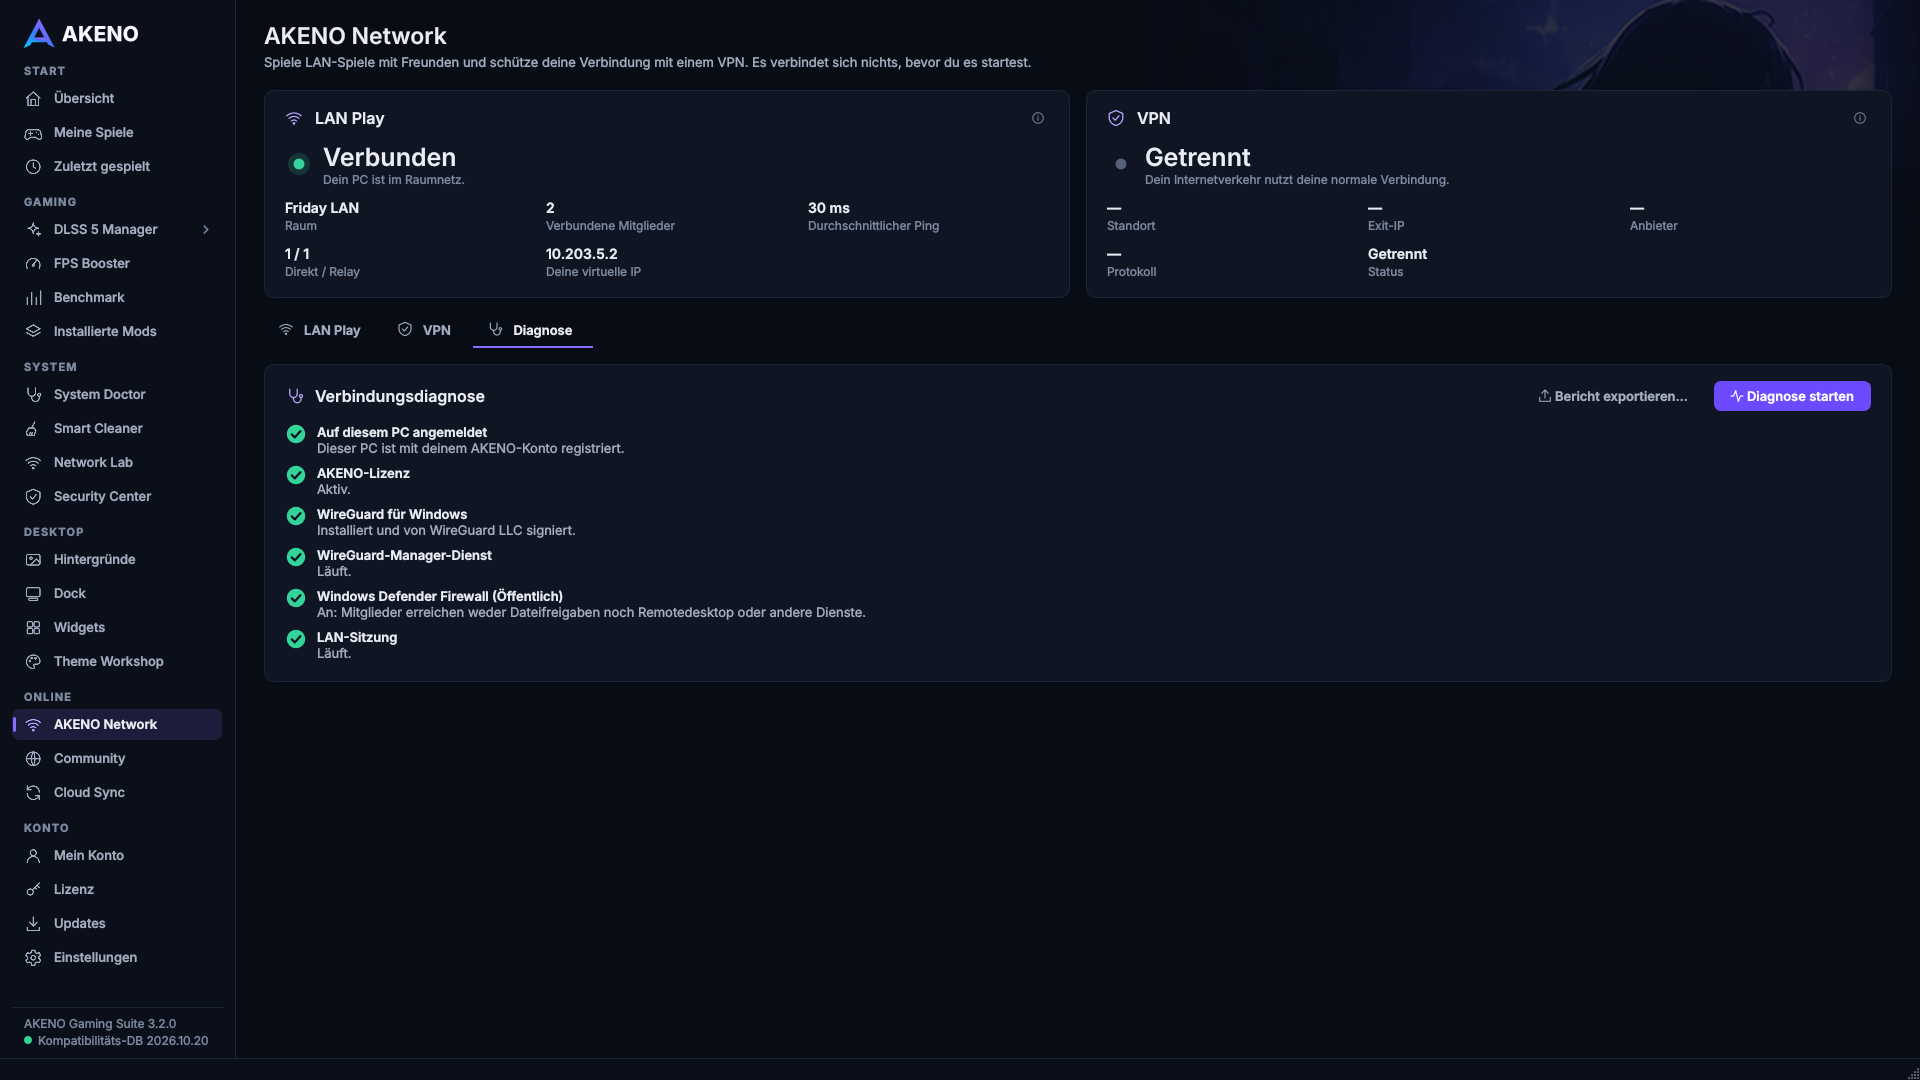
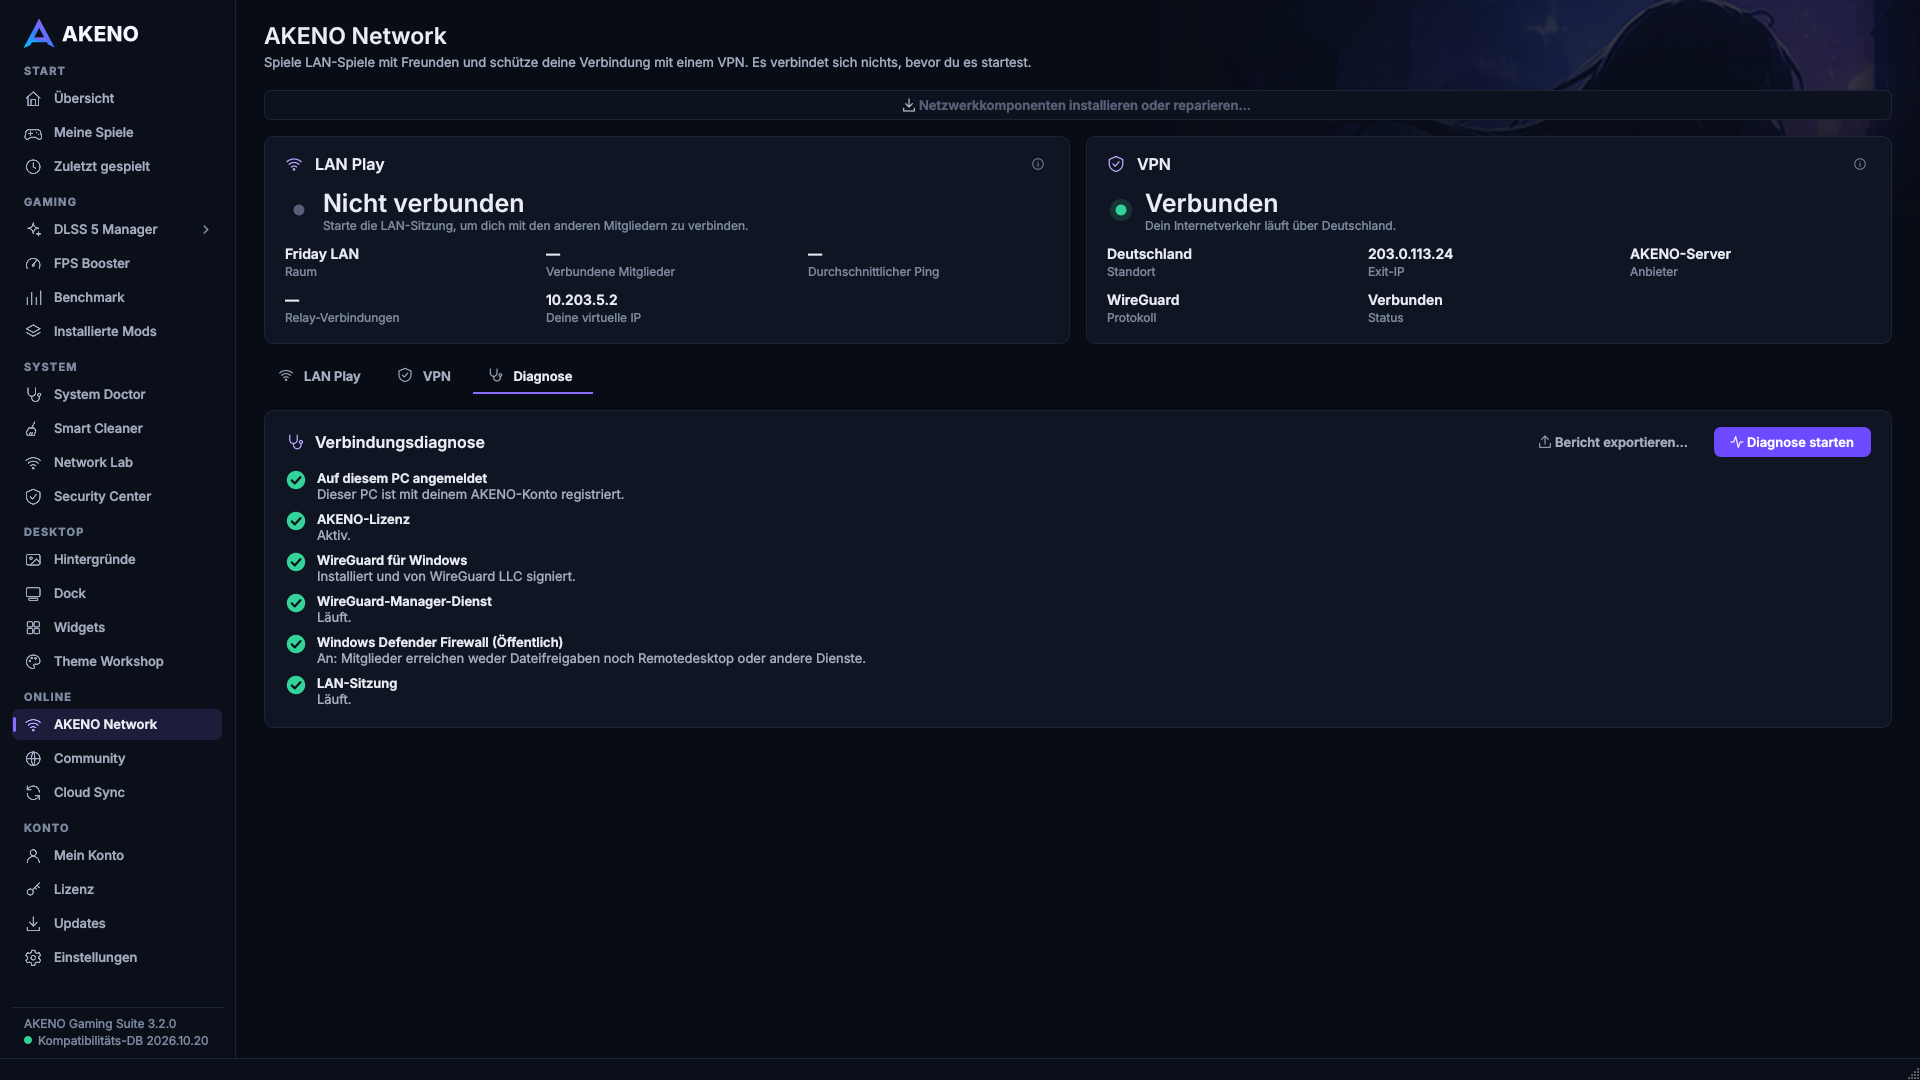
screenshots: regenerate AKENO Network fixtures with the one-click VPN and relay-only privacy
Adds a fixture connected-VPN view (documentation addresses, labelled as fixture; no real exit exists)
and enables Disconnect only while a managed VPN session is active. LAN Play is shown stopped in the
VPN view because the two never run at the same time.

Claude-Session: https://claude.ai/code/session_012C6XtPV2DycDRGNnevto7F

diff --git a/tools/network_screenshots.py b/tools/network_screenshots.py
@@ -3,7 +3,8 @@
     python tools/network_screenshots.py OUT_DIR
 
 Writes akeno-network-*-{en,de}-fixture.png: the empty page, an active LAN session with two relayed
-member, and diagnostics. The member list, paths and pings are synthetic; real connection evidence is in the CI runs
+members, the VPN tab (no AKENO exit available, as today), the one-click VPN in a FIXTURE connected state with
+documentation addresses, and diagnostics. The member list, paths and pings are synthetic; real connection evidence is in the CI runs
 listed in docs/AKENO_NETWORK_PROGRESS.md.
 """
 from __future__ import annotations
@@ -79,6 +80,21 @@ def main(out: Path):
         page.show_tab(1)
         settle()
         win.grab().save(str(out / f'akeno-network-vpn-{language}-fixture.png'))
+        # One-click AKENO VPN with a FIXTURE catalog (one German exit) and a FIXTURE verified session that uses
+        # documentation addresses (RFC 5737 / RFC 3849). No real exit server exists today.
+        vpn = page.automatic_vpn
+        page.session = {'state': 'stopped'}         # LAN Play and the VPN never run at the same time
+        page.show_room()
+        vpn.built = True
+        vpn.client = lambda: type('Fixture', (), {'catalog': staticmethod(lambda: {
+            'countries': ['DE'], 'servers': [{'id': 'fe' * 16, 'country': 'DE', 'capacity': 50, 'in_use': 3}]})})()
+        vpn.refresh()
+        vpn.show_status({'state': 'connected', 'updated': now, 'country': 'DE', 'exit_ipv4': '203.0.113.24',
+                         'exit_ipv6': '2001:db8::24', 'routing_verified': True, 'dns_verified': True,
+                         'connected_since': now - 754}, now=now)
+        settle()
+        win.grab().save(str(out / f'akeno-network-vpn-connected-{language}-fixture.png'))
+        vpn.built = False
         page.show_tab(2)
         clear_layout(page.diag_box)
         for state, title, detail in (('ok', 'Signed in on this PC', 'This PC is registered with your AKENO account.'),

diff --git a/akeno/ui/network_vpn.py b/akeno/ui/network_vpn.py
@@ -167,10 +167,8 @@ class AutomaticVPN(Card):
             'time yet. A VPN does not make you anonymous: the VPN operator and the sites you sign in to still know '
             'who you are.')))
         self.built = sys.platform == 'win32' and bool(getattr(sys, 'frozen', False))
-        self.stop_button.setEnabled(self.built)
-        self.recover_button.setEnabled(self.built)
         self.refresh_button.setEnabled(sys.platform == 'win32')
-        self.connect_button.setEnabled(False)
+        self._update_buttons()
         self.timer = QTimer(self)
         self.timer.setInterval(2000)
         self.timer.timeout.connect(self.poll)
@@ -324,3 +322,5 @@ class AutomaticVPN(Card):
         busy = getattr(self, 'active', False)
         self.connect_button.setEnabled(self.built and not busy and bool(self.selected) and
                                        self.available(self.selected))
+        self.stop_button.setEnabled(self.built and busy)
+        self.recover_button.setEnabled(self.built)

diff --git a/screenshots/network-fixtures/README.md b/screenshots/network-fixtures/README.md
@@ -11,8 +11,10 @@ CI links in `docs/AKENO_NETWORK_PROGRESS.md`.
 | File | Content |
 |---|---|
 | `akeno-network-empty-{en,de}-fixture.png` | No room yet: create or join |
-| `akeno-network-session-{en,de}-fixture.png` | Active LAN session: one direct (P2P) and one relayed member |
-| `akeno-network-vpn-{en,de}-fixture.png` | VPN tab: one fixture own profile; the 8 target countries without AKENO servers (real state) |
+| `akeno-network-session-{en,de}-fixture.png` | Active LAN session: two members, both via the relay (relay-only), IP privacy "Protected: relay only" |
+| `akeno-network-vpn-{en,de}-fixture.png` | VPN tab: the 8 target countries, none available (the real state today: no AKENO exit runs) |
+| `akeno-network-vpn-connected-{en,de}-fixture.png` | One-click AKENO VPN with a **fixture** catalog (one German exit) and a **fixture** verified session using documentation addresses `203.0.113.24` / `2001:db8::24`; no real exit exists |
 | `akeno-network-diagnostics-{en,de}-fixture.png` | Diagnostics results (fixture rows) |
 
 Regenerated for 3.2.0 (redesign): dashboard, tabs, steps, owner view.
+Regenerated on the Claude continuation branch: one-click AKENO VPN card, relay-only privacy row, browser filters.
